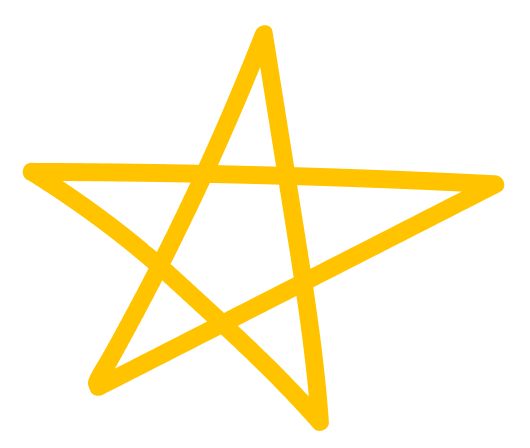
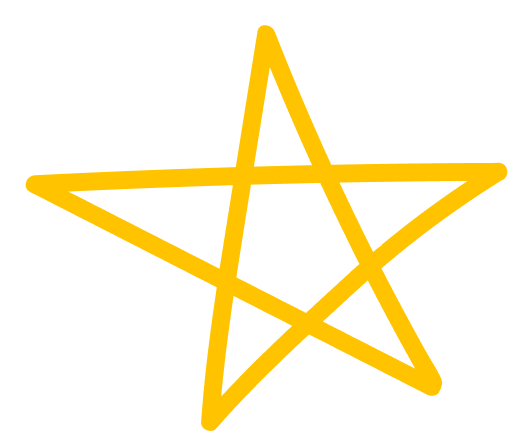
동찬이형님 few-shot example 다 만들었습니다

Changed region(s): [[0.0302, 0.0625, 0.966, 0.9688]]

diff --git a/src/pages/gpt-study/components/content/tabs/expanded/tutorial/Recipe2TutorialExample.jsx b/src/pages/gpt-study/components/content/tabs/expanded/tutorial/Recipe2TutorialExample.jsx
@@ -62,14 +62,9 @@ const Recipe2TutorialExample = ({ recipeId, index }) => {
         <Section11 />
       </FadeSection>
 
-      {/* Section 12 */}
+      {/* Section 12 - 버튼 포함 */}
       <FadeSection>
-        <Section12 />
-      </FadeSection>
-
-      {/* Section 13 - 버튼 포함 */}
-      <FadeSection>
-        <Section13 recipeId={recipeId} index={index} />
+        <Section12 recipeId={recipeId} index={index} />
       </FadeSection>
     </div>
   );
@@ -543,8 +538,14 @@ const Section9 = () => {
           </p>
         </div>
       </div>
+    </div>
+  );
+};
 
-      {/* YellowFewShot 이미지 */}
+// Section 10
+const Section10 = () => {
+  return (
+    <>{/* YellowFewShot 이미지 */}
       <div className="flex justify-center mt-16">
         <img
           src="/images/gpt-study/few-shot/YellowFewShot.png"
@@ -555,69 +556,117 @@ const Section9 = () => {
           }}
         />
       </div>
-    </div>
-  );
-};
-
-// Section 10
-const Section10 = () => {
-  return (
-    <div className="w-full flex items-center justify-center py-24">
-      <div className="text-center font-pretendard text-xl">
-        Section 10 - 여기에 내용이 들어갑니다
-      </div>
-    </div>
+    </>
   );
 };
 
 // Section 11
 const Section11 = () => {
+  const navigate = useNavigate();
+  const { slug } = useParams();
+
+  const handleGoToChat = () => {
+    navigate(`/gpt-study/${slug}/chat`);
+  };
+
   return (
-    <div className="w-full flex items-center justify-center py-24">
-      <div className="text-center font-pretendard text-xl">
-        Section 11 - 여기에 내용이 들어갑니다
+    <div className="w-full flex flex-col items-center justify-center pt-72 relative">
+      {/* FirstLine2 */}
+      <img
+        src="/images/gpt-study/few-shot/FirstLine2.png"
+        alt="First Line 2"
+        className="absolute"
+        style={{
+          left: '0px',
+          top: '120px',
+          width: '310px',
+          height: '250px'
+        }}
+      />
+
+      {/* SecondLine2 */}
+      <img
+        src="/images/gpt-study/few-shot/SecondLine2.png"
+        alt="Second Line 2"
+        className="absolute"
+        style={{
+          right: '0px',
+          top: '200px',
+          width: '350px',
+          height: '250px'
+        }}
+      />
+
+      {/* Star 1 - '그럼' 좌측 하단 */}
+      <img
+        src="/images/gpt-study/few-shot/Star.png"
+        alt="Star 1"
+        className="absolute"
+        style={{
+          left: '250px',
+          top: '480px',
+          width: '105px',
+          height: '89px'
+        }}
+      />
+
+      {/* Star 2 - '감이' 위 */}
+      <img
+        src="/images/gpt-study/few-shot/Star.png"
+        alt="Star 2"
+        className="absolute"
+        style={{
+          left: '700px',
+          top: '145px',
+          width: '105px',
+          height: '89px'
+        }}
+      />
+
+      {/* 텍스트 */}
+      <div className="text-3xl font-pretendard leading-[2.5] text-center z-10">
+        <p className='md-20'>
+          어때요? <span className="font-bold text-4xl">Few-shot</span> 에 대해 이제 감이 오죠?
+        </p>
+        <p>
+          좋아요! 하지만 <span className="underline underline-offset-8 decoration-[#FFC300] decoration-2">진짜 셰프가 되려면 조금 더 학습</span>이 필요하답니다.
+        </p>
+        <p>
+          그럼 이제 다음 단계로 넘어가 볼까요?
+        </p>
       </div>
+
+      {/* 버튼 + SpoonAndChopsticks */}
+      <div className="w-full flex items-center justify-center gap-4 mt-12 z-10">
+        <button
+          onClick={handleGoToChat}
+          className="bg-[#FFC300] border-2 border-black rounded-full px-12 py-4 text-3xl font-medium font-pretendard hover:bg-[#FFD54F] transition-colors"
+        >
+          레시피 연습하러 가기
+        </button>
+      </div>
+      {/* SpoonAndChopsticks */}
+      <img
+        src="/images/gpt-study/few-shot/SpoonAndChopsticks.png"
+        alt="Spoon and Chopsticks"
+        style={{
+          right: '0px',
+          top: '350px',
+          position: 'absolute',
+          width: '400px',
+          height: '500px'
+        }}
+      />
     </div>
   );
 };
+
 
 // Section 12
-const Section12 = () => {
-  return (
-    <div className="w-full flex items-center justify-center py-24">
-      <div className="text-center font-pretendard text-xl">
-        Section 12 - 여기에 내용이 들어갑니다
-      </div>
-    </div>
-  );
-};
-
-// Section 13 - 버튼 포함
-const Section13 = ({ recipeId, index }) => {
+const Section12 = ({ recipeId, index }) => {
   const navigate = useNavigate();
   const { slug } = useParams();
   const { collapseContent, setActiveSection } = useGPTStudyStore();
-
-  const handleChatTabOpen = () => {
-    console.log("💬 Opening Chat tab with smooth collapse");
-    
-    // 1. Section 시작점으로 스크롤
-    const sectionElement = document.getElementById(`section-${index}`);
-    if (sectionElement) {
-      sectionElement.scrollIntoView({ behavior: 'smooth', block: 'start' });
-    }
-    
-    // 2. 약간의 딜레이 후 접기 & Chat 탭 열기
-    setTimeout(() => {
-      collapseContent();
-      setActiveSection(recipeId - 1);
-      
-      // 3. 애니메이션이 끝난 후 Chat 탭으로 URL 변경 (1.2초 후)
-      setTimeout(() => {
-        navigate(`/gpt-study/${slug}/chat`);
-      }, 1200);
-    }, 300);
-  };
 
   const handleCloseTutorial = () => {
     console.log("🔼 Closing Tutorial with smooth collapse");
@@ -641,27 +690,25 @@ const Section13 = ({ recipeId, index }) => {
   };
 
   return (
-    <div className="w-full flex flex-col items-center justify-center py-24">
-      <div className="text-center font-pretendard text-xl mb-12">
-        Section 13 - 여기에 내용이 들어갑니다
-      </div>
-
+    <div className="w-full flex flex-col items-center justify-center pt-72 pb-12">
       {/* 버튼 영역 */}
-      <div className="flex items-center justify-center gap-6">
-        {/* Chat 탭 열기 버튼 */}
-        <button
-          onClick={handleChatTabOpen}
-          className="px-8 py-4 bg-[#FE7525] text-white font-bold text-lg font-pretendard rounded-lg hover:bg-[#FF9E4A] transition-all duration-300"
-        >
-          CHAT 탭 열기
-        </button>
-
+      <div className="flex flex-col items-center">
+        {/* Triangle 이미지 */}
+        <img
+          src="/images/gpt-study/few-shot/Triangle.png"
+          alt="Triangle"
+          style={{
+            width: '40px',
+            height: '35px'
+          }}
+        />
+        
         {/* Tutorial 접기 버튼 */}
         <button
           onClick={handleCloseTutorial}
-          className="px-8 py-4 bg-gray-700 text-white font-bold text-lg font-pretendard rounded-lg hover:bg-gray-600 transition-all duration-300"
+          className="bg-[#FFC300] border-2 border-black text-black mt-2 py-4 px-96 text-3xl font-medium font-pretendard"
         >
-          TUTORIAL 접기
+          다른 레시피 더 알아보기
         </button>
       </div>
     </div>
